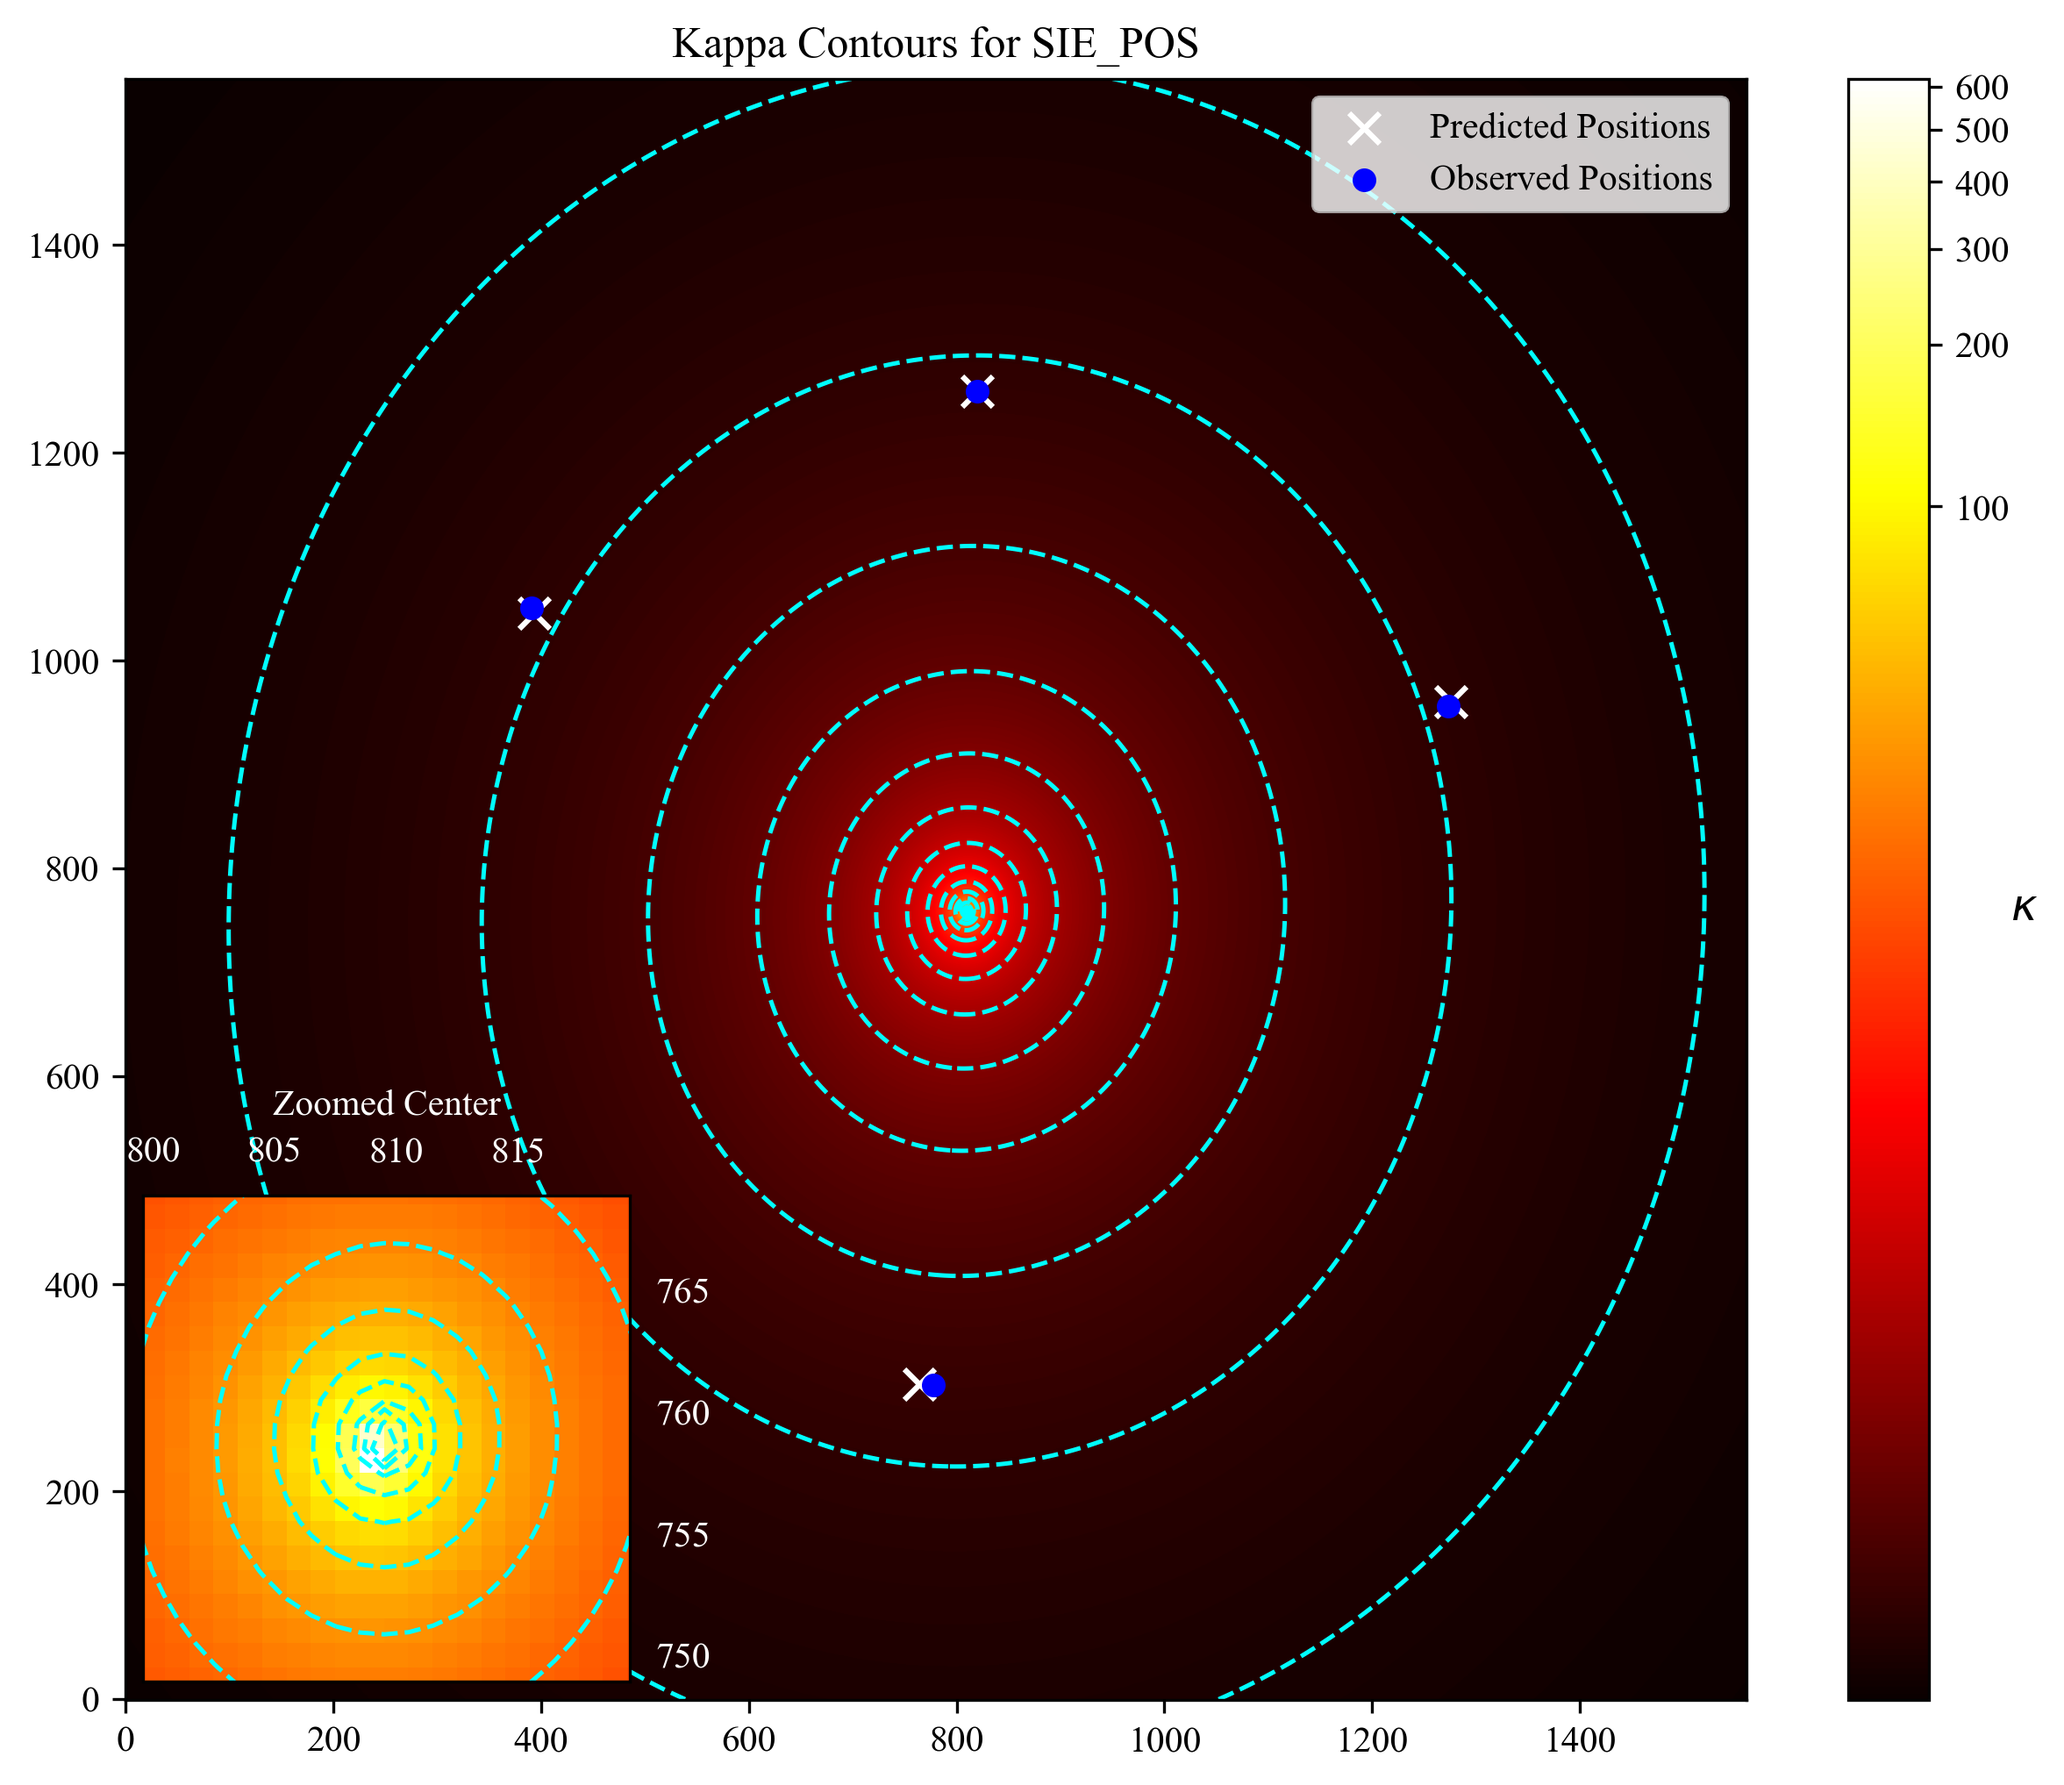
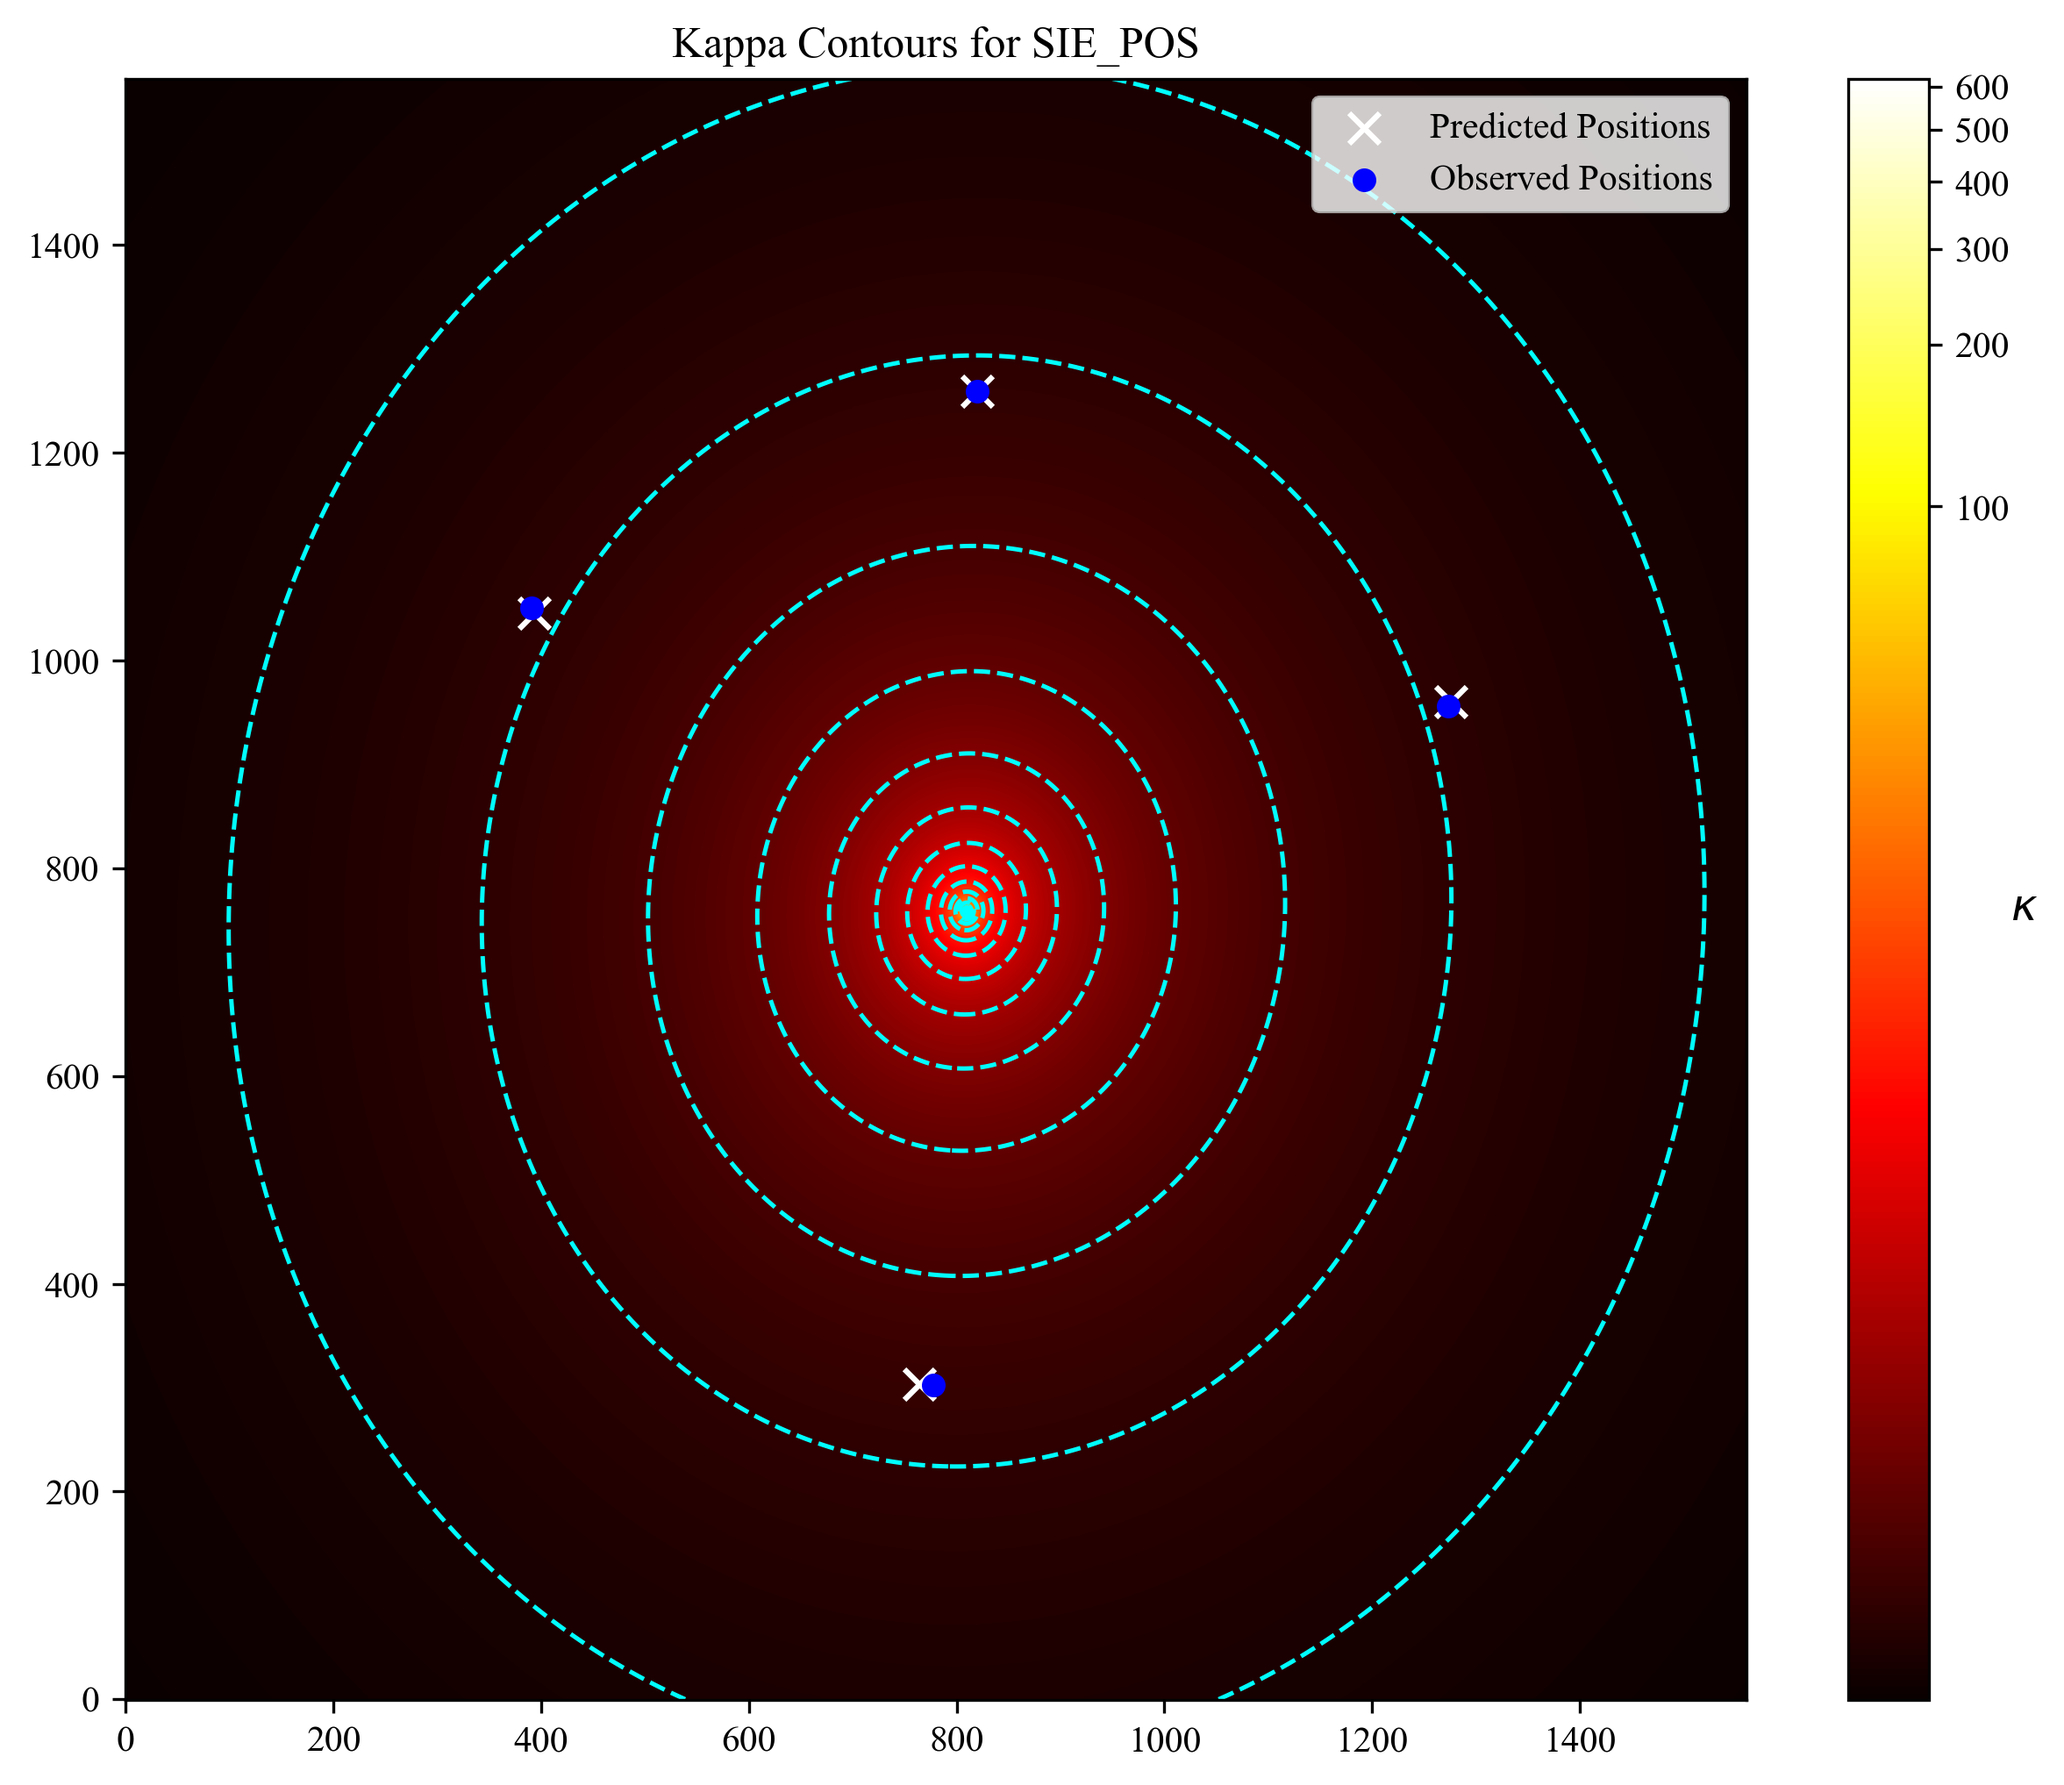
all model contour images added

Changed region(s): [[0.062, 0.6192, 0.3413, 0.9597]]

diff --git a/kappa_glafic.py b/kappa_glafic.py
@@ -1,7 +1,7 @@
 #!/usr/bin/env python
 import glafic
 
-glafic.init(0.3, 0.7, -1.0, 0.7, 'kappa/SIE/SIE_POS', 20.0, 20.0, 21.56, 21.56, 0.001, 0.001, 1, verb = 0)
+glafic.init(0.3, 0.7, -1.0, 0.7, 'kappa/C_SIE/C_SIE_POS+FLUX', 20.0, 20.0, 21.56, 21.56, 0.001, 0.001, 1, verb = 0)
 
 glafic.set_secondary('chi2_splane 0', verb = 0)
 glafic.set_secondary('chi2_checknimg 0', verb = 0)
@@ -11,8 +11,8 @@ glafic.set_secondary('hvary          0', verb = 0)
 glafic.set_secondary('ran_seed -122000', verb = 0)
 
 glafic.startup_setnum(1, 0, 1)
-glafic.set_lens(1, 'sie', 0.2613, 1.580350e+02, 2.080960e+01, 2.075891e+01, 1.287589e-01, -4.437098e+00, 0.000000e+00, 0.000000e+00)
-glafic.set_point(1, 1.000, 2.081270e+01, 2.078004e+01)
+glafic.set_lens(1, 'sie', 0.2613, 1.618724e+02, 2.080980e+01, 2.075980e+01, 1.158154e-01, -4.429027e+00, 2.407818e-02, 0.000000e+00)
+glafic.set_point(1, 1.000, 2.081269e+01, 2.077951e+01)
 
 glafic.setopt_lens(1, 0, 0, 0, 0, 0, 0, 0, 0)
 glafic.setopt_point(1, 0, 0, 0)
